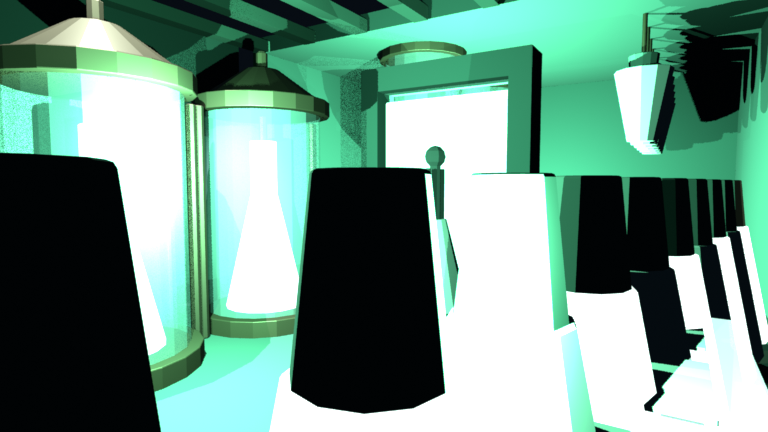
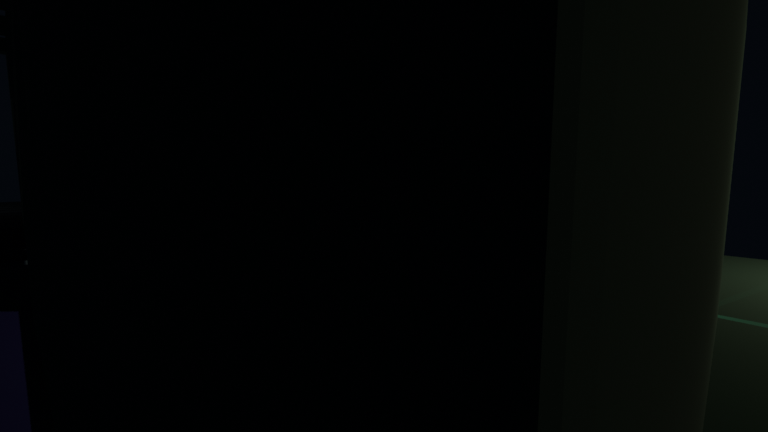
Add rendered frames; narrow the figure silhouettes and cut the light flood
Frames from the split render/export path (EEVEE recovered, no Cycles
fallback needed): all three shots rendered, GLB 7.8MB, 110,372 tris.

Self-review of these frames, with fixes already applied to the script
here and rebuilding now:
  - figures read as chess pieces. The cone skirts used radii near a metre,
    so Pearl's gown rendered over 1.5m wide with a finial-sized head on
    top. Skirts roughly halved with a real hem instead of a cone flare,
    longer bodices, shoulders added, larger heads on proper necks.
  - the key light added to make the figures visible flooded the runway to
    bright mint and destroyed the wet black reflectivity. Key cut 520 ->
    95, fill 26 -> 5.

Known limit: procedural primitives give a correct composition and a
credible silhouette but will not resolve to the faces and couture in the
reference art. Real character meshes (generated from the key art, or
rigged and dressed) are the right next step for the figures.

Claude-Session: https://claude.ai/code/session_01JerWFB4ywAVhfuxYFyGNL6

diff --git a/worlds/house-of-velvet/build_house_of_velvet.py b/worlds/house-of-velvet/build_house_of_velvet.py
@@ -507,43 +507,48 @@ RW = 0.18   # runway top
 
 
 def model(tag, gx, gz, height, hip, gown_mat, hair_mat, hair_r, trim=None):
-    """Stylised walking figure: gown cone, torso, arms, head, hair."""
+    """Stylised walking figure. Narrow silhouette: couture reads tall, not conical."""
     parts = []
-    gown_h = height * 0.55
-    parts.append(gcone(f"{tag}_gown", gx, RW + gown_h / 2, gz, hip, hip * 0.33,
-                       gown_h, gown_mat, verts=16))
-    parts.append(gcyl(f"{tag}_torso", gx, RW + gown_h + height * 0.16, gz,
-                      hip * 0.42, height * 0.33, gown_mat, verts=12))
-    parts.append(gcyl(f"{tag}_neck", gx, RW + height * 0.885, gz, 0.045,
-                      height * 0.07, SKIN, verts=8))
-    parts.append(gsph(f"{tag}_head", gx, RW + height * 0.945, gz, height * 0.055,
-                      SKIN, segs=12))
-    parts.append(gsph(f"{tag}_hair", gx, RW + height * 0.985, gz, hair_r,
-                      hair_mat, segs=12))
+    gown_h = height * 0.50
+    # skirt: narrow at the hem, not a traffic cone
+    parts.append(gcone(f"{tag}_gown", gx, RW + gown_h / 2, gz, hip, hip * 0.52,
+                       gown_h, gown_mat, verts=18))
+    # long bodice
+    parts.append(gcyl(f"{tag}_torso", gx, RW + gown_h + height * 0.17, gz,
+                      hip * 0.50, height * 0.34, gown_mat, verts=14))
+    # shoulders
+    parts.append(gbox(f"{tag}_shoulders", gx, RW + height * 0.80, gz,
+                      hip * 1.15, height * 0.045, hip * 0.62, gown_mat))
+    parts.append(gcyl(f"{tag}_neck", gx, RW + height * 0.845, gz, 0.052,
+                      height * 0.075, SKIN, verts=8))
+    parts.append(gsph(f"{tag}_head", gx, RW + height * 0.925, gz, height * 0.072,
+                      SKIN, segs=14))
+    parts.append(gsph(f"{tag}_hair", gx, RW + height * 0.962, gz, hair_r,
+                      hair_mat, segs=14))
     for sgn in (-1, 1):
-        parts.append(gcyl(f"{tag}_arm{sgn}", gx + sgn * (hip * 0.5), RW + height * 0.6,
-                          gz + 0.04, 0.035, height * 0.42, SKIN, verts=8,
-                          rot_x=sgn * 0.07))
+        parts.append(gcyl(f"{tag}_arm{sgn}", gx + sgn * (hip * 0.92), RW + height * 0.58,
+                          gz + 0.03, 0.036, height * 0.40, SKIN, verts=8,
+                          rot_x=sgn * 0.05))
     if trim:
-        for i in range(4):
-            parts.append(gcyl(f"{tag}_trim{i}", gx - hip * 0.6 + i * hip * 0.4,
-                              RW + gown_h * 0.55, gz - hip * 0.2, 0.012,
-                              gown_h * 0.8, trim, verts=6))
+        for i in range(5):
+            parts.append(gcyl(f"{tag}_trim{i}", gx - hip * 0.62 + i * hip * 0.31,
+                              RW + gown_h * 0.52, gz - hip * 0.30, 0.009,
+                              gown_h * 0.86, trim, verts=6))
     return parts
 
 
 _m = []
 # Seraphine: thin, tall, torn black chiffon with gold thread (leads, nearest camera)
-_m += model("seraphine", 0.0, -8.6, 1.95, 0.46, GOWN_BLACK, HAIR, 0.055, trim=GOLD_THREAD)
+_m += model("seraphine", 0.0, -8.6, 1.95, 0.21, GOWN_BLACK, HAIR, 0.055, trim=GOLD_THREAD)
 # Madame Volta: curvy, crimson velvet, towering beehive
-_m += model("volta", -1.02, -10.9, 1.78, 0.62, GOWN_CRIMSON, HAIR, 0.165)
+_m += model("volta", -1.06, -10.9, 1.78, 0.30, GOWN_CRIMSON, HAIR, 0.145)
 # Duchess Pearl: grand, pearl-encrusted ivory
-_m += model("pearl", 1.05, -10.7, 1.76, 0.78, GOWN_IVORY, HAIR, 0.125, trim=PEARL)
+_m += model("pearl", 1.08, -10.7, 1.76, 0.37, GOWN_IVORY, HAIR, 0.115, trim=PEARL)
 join_group("house_models", _m)
 
 # a soft key so the lead model is actually lit, as in the art
-light("model_key", "SPOT", 0.0, 6.2, -8.0, "cfe0ff", 520, spot_size=0.75)
-light("model_fill", "POINT", 0.0, 1.5, -6.6, "ffe8bc", 26)
+light("model_key", "SPOT", 0.0, 6.2, -8.4, "cfe0ff", 95, spot_size=0.55)
+light("model_fill", "POINT", 0.0, 1.9, -6.2, "ffe8bc", 5)
 
 # ===================== BEVEL PASS ==============================================
 for o in [o for o in bpy.data.objects if o.type == "MESH"]:
